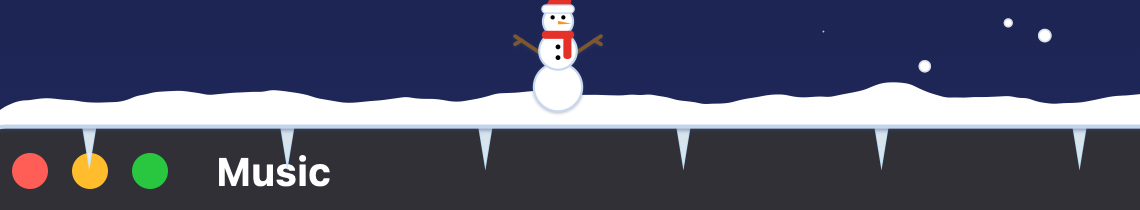
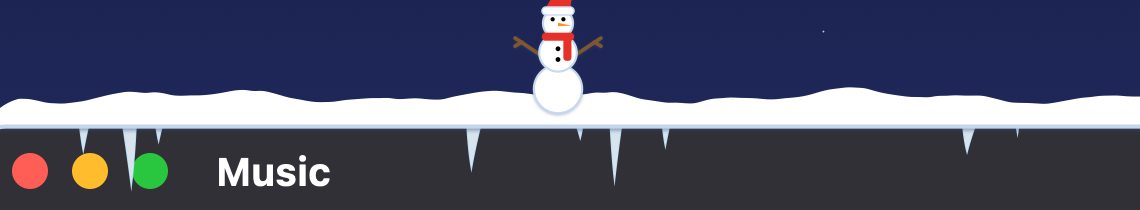
Vary icicle clusters and pop snowmen on click

diff --git a/Sources/main.swift b/Sources/main.swift
@@ -248,6 +248,14 @@ enum DockGeometry {
 
 // MARK: - Snow pile height map
 
+struct Icicle {
+    let x: CGFloat
+    let cap: CGFloat
+    let girth: CGFloat
+    let lean: CGFloat
+    var length: CGFloat = 0
+}
+
 final class Pile {
     static let step: CGFloat = 3
     static let maxH: CGFloat = 13 * S
@@ -257,7 +265,8 @@ final class Pile {
     var caps: [CGFloat] = []
     var lastSeen = Date()
     var created = Date()
-    var icicles: [CGFloat] = []
+    var icicles: [Icicle] = []
+    var icicleLayoutWidth: CGFloat?
     var icicleDirty = true
     private let ph1 = CGFloat.random(in: 0...6.28), ph2 = CGFloat.random(in: 0...6.28)
     /// soft rounded lumps rather than a flat slab
@@ -1370,10 +1379,42 @@ final class Engine {
         updateRate()
     }
 
-    func icicleSite(_ key: UInt64, _ index: Int) -> (x: CGFloat, cap: CGFloat) {
-        let seed = (key &* 1664525 &+ UInt64(index) &* 1013904223) & 0xffff
-        let fraction = CGFloat(seed) / 65535
-        return ((25 + CGFloat(index) * 58 + fraction * 12) * S, (10 + fraction * 12) * S)
+    func layoutIcicles(on surf: Surface, pile: Pile) {
+        let width = surf.width / S
+        guard pile.icicleLayoutWidth != width else { return }
+        pile.icicleLayoutWidth = width
+        var seed = surf.key
+        func sample(_ range: ClosedRange<CGFloat>) -> CGFloat {
+            // SplitMix64 keeps the layout stable as the window moves or reveals more sites on resize.
+            seed &+= 0x9e3779b97f4a7c15
+            var value = seed
+            value = (value ^ (value >> 30)) &* 0xbf58476d1ce4e5b9
+            value = (value ^ (value >> 27)) &* 0x94d049bb133111eb
+            value ^= value >> 31
+            let fraction = CGFloat(value >> 40) / 16_777_216
+            return range.lowerBound + fraction * (range.upperBound - range.lowerBound)
+        }
+
+        var sites: [Icicle] = []
+        var x = sample(16...45)
+        let limit = width - 12
+        while x < limit {
+            let count = Int(sample(1...5))
+            let longest = Int(sample(0...CGFloat(count)))
+            for index in 0..<count {
+                guard x < limit else { break }
+                let cap = index == longest ? sample(11...27) : sample(3...13)
+                sites.append(Icicle(x: x * S, cap: cap * S, girth: sample(0.8...1.35),
+                                    lean: sample(-0.65...0.65)))
+                if index + 1 < count { x += sample(5...16) }
+            }
+            x += sample(27...96)
+        }
+        for index in 0..<min(sites.count, pile.icicles.count) {
+            sites[index].length = pile.icicles[index].length
+        }
+        pile.icicles = sites
+        pile.icicleDirty = true
     }
 
     /// Explicit calls also drive the debug and virtual-desktop melt scenes.
@@ -1381,28 +1422,24 @@ final class Engine {
         guard Settings.shared.meltOn, !paused, seconds > 0 else { return }
         let amount = [CGFloat(0.4), 1.2, 3.0][Settings.shared.meltSpeed] * S * CGFloat(seconds) / 60
         for (key, pile) in piles where Date().timeIntervalSince(pile.created) >= 180 {
-            guard pile.heights.contains(where: { $0 > 0 }) || pile.icicles.contains(where: { $0 > 0 }) else { continue }
+            guard pile.heights.contains(where: { $0 > 0 }) || pile.icicles.contains(where: { $0.length > 0 }) else { continue }
             let before = pile.heights
             for i in pile.heights.indices { pile.heights[i] = max(0, pile.heights[i] - amount) }
             pile.dirty = true; pileDirty = true
             guard key < Engine.dockKey(0), let surf = surfaces[key] else { continue }
-            let count = max(0, Int((surf.width / S - 25) / 58))
-            if pile.icicles.count != count {
-                pile.icicles = Array(pile.icicles.prefix(count))
-                while pile.icicles.count < count { pile.icicles.append(0) }
-                pile.icicleDirty = true
-            }
+            layoutIcicles(on: surf, pile: pile)
             let empty = !before.contains { $0 > 0.05 }
             for i in pile.icicles.indices {
-                let site = icicleSite(key, i), bin = min(before.count - 1, max(0, pile.index(site.x)))
+                let site = pile.icicles[i], bin = min(before.count - 1, pile.index(site.x))
                 guard bin >= 0 else { continue }
-                let old = pile.icicles[i]
+                let old = site.length
                 if empty {
-                    pile.icicles[i] = max(0, old - amount * 2)
+                    pile.icicles[i].length = max(0, old - amount * 2)
                 } else if before[bin] > 0, isVisible(key, surf.minX + site.x) {
-                    pile.icicles[i] = min(site.cap, old + (before[bin] - pile.heights[bin]) * 4)
+                    let growth = (before[bin] - pile.heights[bin]) * site.cap / (4 * S)
+                    pile.icicles[i].length = min(site.cap, old + growth)
                 }
-                if old != pile.icicles[i] { pile.icicleDirty = true }
+                if old != pile.icicles[i].length { pile.icicleDirty = true }
             }
         }
     }
@@ -1410,13 +1447,16 @@ final class Engine {
     func iciclePath(_ surf: Surface, _ pile: Pile) -> CGPath {
         let path = CGMutablePath()
         guard surf.z >= 0 else { return path }
-        for i in pile.icicles.indices where pile.icicles[i] > 0 {
-            let x = icicleSite(surf.key, i).x, length = pile.icicles[i]
+        for site in pile.icicles where site.length > 0 {
+            let x = site.x, length = site.length
             guard x < surf.width - 12 * S, isVisible(surf.key, surf.minX + x) else { continue }
-            let half = min(2.2 * S, length * 0.18)
+            let half = min(2.2 * S, length * 0.18) * site.girth
+            let tip = CGPoint(x: x + half * site.lean, y: -length)
             path.move(to: CGPoint(x: x - half, y: 0))
-            path.addLine(to: CGPoint(x: x, y: -length))
-            path.addLine(to: CGPoint(x: x + half, y: 0)); path.closeSubpath()
+            path.addQuadCurve(to: tip, control: CGPoint(x: tip.x - half * 0.4, y: -length * 0.65))
+            path.addQuadCurve(to: CGPoint(x: x + half, y: 0),
+                              control: CGPoint(x: tip.x + half * 0.5, y: -length * 0.55))
+            path.closeSubpath()
         }
         return path
     }
@@ -1540,11 +1580,16 @@ final class Engine {
         let area = m.kind == .snowman ? 0.3 * (13 * m.scale) * (50 * m.scale) : .pi * m.scale * m.scale
         piles[s.key]?.deposit(at: m.pos.x - s.minX, area: area)
         pileDirty = true
+        snowPuff(for: m, baseY: s.top, source: s.key)
+    }
+
+    private func snowPuff(for m: Prop, baseY: CGFloat, source: UInt64) {
+        guard !overlays.isEmpty else { return }
         let count = m.kind == .snowman ? 26 : 12
         let w = m.halfWidth, h = m.height * 0.7
         CATransaction.begin(); CATransaction.setDisableActions(true)
         for _ in 0..<count {
-            let pos = CGPoint(x: m.pos.x + .random(in: -w...w), y: s.top + .random(in: 0...h))
+            let pos = CGPoint(x: m.pos.x + .random(in: -w...w), y: baseY + .random(in: 0...h))
             let o = overlays[overlayIndex(for: pos)]
             let layer = flakeLayer()
             let r = CGFloat.random(in: 1.2...2.6) * S
@@ -1553,7 +1598,7 @@ final class Engine {
             o.actors.addSublayer(layer)
             let dir: CGFloat = pos.x < m.pos.x ? -1 : 1
             spills.append(Spill(layer: layer, pos: pos, vy: .random(in: 60...260) * S, vx: dir * .random(in: 30...170) * S,
-                                area: 0, source: s.key, fromDock: true, ttl: .random(in: 0.4...0.6)))
+                                area: 0, source: source, fromDock: true, ttl: .random(in: 0.4...0.6)))
         }
         CATransaction.commit()
         updateRate()
@@ -1695,7 +1740,7 @@ final class Engine {
         }
         for (k, surf) in surfaces {
             guard let pile = piles[k], pile.heights.count > 1 else { continue }
-            let empty = (pile.mean <= 0.05 && !pile.icicles.contains { $0 > 0 }) || (segments[k] ?? []).isEmpty
+            let empty = (pile.mean <= 0.05 && !pile.icicles.contains { $0.length > 0 }) || (segments[k] ?? []).isEmpty
             if empty { if let v = pileViews[k] { v.container.isHidden = true }; continue }
             let view = pileViews[k] ?? PileView()
             pileViews[k] = view
@@ -2077,6 +2122,7 @@ final class Engine {
     var downPoint: CGPoint?
     var downTime: CFTimeInterval = 0
     var downWin: Win?
+    weak var downSnowman: Prop?
 
     func topWindow(at p: CGPoint, in list: [Win]) -> Win? { list.first { $0.frame.contains(p) }.flatMap { $0.surface ? $0 : nil } }
 
@@ -2089,6 +2135,7 @@ final class Engine {
 
     func mouseDown(at p: CGPoint) {
         carryCancel(); carry = nil
+        downSnowman = nil
         mouseIsDown = true
         refreshGeometry()
         if expose { downPoint = nil; downWin = nil; drag = nil; rollCancel(); return }   // Mission Control clicks
@@ -2105,6 +2152,9 @@ final class Engine {
         if let m = prop(at: p, ballsOnly: true), let key = m.host, surfaces[key] != nil {
             rollCancel()
             carry = Carry(prop: m, host: key, at: p, time: clock())
+        } else if let m = prop(at: p), m.kind == .snowman {
+            rollCancel()
+            downSnowman = m
         } else { rollBegin(at: p) }
         CATransaction.commit()
         updateRate()
@@ -2195,9 +2245,12 @@ final class Engine {
             let x = surf.minX + min(surf.width, CGFloat(i) * Pile.step)
             samples.append((x: x, y: surf.top + h - t / 2, area: t * Pile.step))
         }
-        if pile.icicles.contains(where: { $0 > 0 }) {        // icicles snap off with it
+        if pile.icicles.contains(where: { $0.length > 0 }) {        // icicles snap off with it
             let keep = 1 - min(1, f * 1.5)
-            pile.icicles = pile.icicles.map { $0 * keep < 1 ? 0 : $0 * keep }
+            for index in pile.icicles.indices {
+                let length = pile.icicles[index].length * keep
+                pile.icicles[index].length = length < 1 ? 0 : length
+            }
             pile.icicleDirty = true
         }
         pile.dirty = true; pileDirty = true
@@ -2235,8 +2288,9 @@ final class Engine {
 
     func mouseUp(at p: CGPoint) {
         mouseIsDown = false
-        defer { updateRate() }
-        if drag?.confirmed == true {
+        defer { downSnowman = nil; updateRate() }
+        let draggedWindow = drag?.confirmed == true
+        if draggedWindow {
             carryCancel()
             drag = nil
             // final word from the window list (it may have snapped / tiled)
@@ -2266,7 +2320,18 @@ final class Engine {
         guard !rolled, let d = downPoint else { downPoint = nil; return }
         downPoint = nil
         guard hypot(p.x - d.x, p.y - d.y) < 4, clock() - downTime < 0.6 else { return }
-        if let m = prop(at: p) { jump(m); return }
+        if let m = downSnowman {
+            guard !draggedWindow, prop(at: p) === m else { return }
+            props.removeAll { $0 === m }
+            m.remove()
+            snowPuff(for: m, baseY: m.pos.y, source: m.host ?? 0)
+            saveState()
+            return
+        }
+        if let m = prop(at: p) {
+            if m.kind == .ball { jump(m) }
+            return
+        }
         guard Settings.shared.snowmenOn, let w0 = downWin else { return }
         refreshGeometry()
         guard let w1 = topWindow(at: p, in: wins), w1.id == w0.id, w1.frame == w0.frame else { return }
@@ -2316,7 +2381,7 @@ final class Engine {
         out += "occlusion=\(occlusionEvents) geometryReads=\(geometryReads) ticks=\(tickCount) expose=\(expose) at=\(exposeAt) clipOpacity=\(overlays.first?.clip.opacity ?? -1)\n"
         out += "shake on=\(settings.shakeOn) strength=\(settings.shakeStrength.rawValue) jolts=\(shakeJolts) sheds=\(shakeSheds) drags=\(dragCount)\n"
         for (k, p) in piles where k < Engine.dockKey(0) {
-            let lengths = p.icicles.filter { $0 > 0 }
+            let lengths = p.icicles.map(\.length).filter { $0 > 0 }
             if let longest = lengths.max() { out += "icicles key=\(k) n=\(lengths.count) maxLen=\(longest)\n" }
         }
         out += "axTrusted=\(AXIsProcessTrusted()) dockAX=\(DockGeometry.debugAXFrame.map { "\(Int($0.minX))..\(Int($0.maxX)) top=\(Int($0.maxY))" } ?? "nil")\n"

diff --git a/Sources/Showcase.swift b/Sources/Showcase.swift
@@ -195,7 +195,7 @@ enum Showcase {
             step(30, record: true) { _ in engine.meltStep(seconds: 20) }
             still("still-9-icicles")
             still("icicles-zoom", scale: 3, crop: CGRect(x: surf.minX + 10, y: surf.top - 30, width: 380, height: 70))
-            let ic = engine.piles[2]?.icicles.filter { $0 > 0 } ?? []
+            let ic = engine.piles[2]?.icicles.map(\.length).filter { $0 > 0 } ?? []
             print("melt mean \(before) -> \(engine.piles[2]?.mean ?? 0), icicles n=\(ic.count) max=\(ic.max() ?? 0)")
         }
         // 12) grab Music by its title bar and shake it: the snow and its snowman fly off.
@@ -220,6 +220,19 @@ enum Showcase {
             engine.mouseUp(at: grab)
             step(30 * 2, record: true)
             print("shake mean \(before) -> \(engine.piles[2]?.mean ?? 0), props on Music: \(engine.props.filter { $0.host == 2 }.count)")
+        }
+        // Clicking a visible snowman removes it and starts a puff at its position.
+        if let surf = engine.surfaces[2] {
+            engine.spawnSnowman(onSurface: surf.key, atX: surf.minX + surf.width * 0.8, fromY: surf.top + 30 * S)
+            if let snowman = engine.props.last {
+                step(30)
+                let click = CGPoint(x: snowman.pos.x, y: snowman.pos.y + snowman.height * 0.35)
+                let before = engine.spills.count
+                engine.mouseDown(at: click)
+                engine.mouseUp(at: click)
+                precondition(!engine.props.contains { $0 === snowman } && engine.spills.count == before + 26)
+                print("snowman click: removed, 26 puff particles")
+            }
         }
         print("showcase: \(frameNo) frames -> \(outDir)")
     }

diff --git a/README.md b/README.md
@@ -33,14 +33,14 @@
 - **창을 좁히면 눈이 떨어짐**: 왼쪽이나 오른쪽 가장자리로 창을 좁히면 넘친 눈이 아래로 떨어져 다른 창이나 Dock에 쌓여요. Dock 폭이 줄어들 때도 바깥쪽 눈이 떨어져요.
 - **창 드래그 따라가기**: 창을 끌고 다니면 쌓인 눈과 눈사람이 마우스 움직임에 맞춰 바로 따라오고, 옮긴 자리에서도 계속 쌓여요.
 - **눈 굴려 눈사람 만들기**: 창 위에 쌓인 눈을 마우스로 좌우로 문지르듯 드래그하면 눈덩이가 굴러가며 커지고, 지나간 자리의 눈은 줄어요. 충분히 크면 손을 놓는 순간 산타 모자 눈사람이 뿅 하고 생기고, 작으면 눈덩이로 남아요. (창 자체가 움직이면 창 드래그로 보고 굴리기를 취소해요.)
-- **제목줄 클릭 눈사람·점프**: 창 제목줄(위쪽 약 28pt)을 클릭하면 그 자리에 눈사람이 톡 떨어져 서요. 눈사람을 클릭하면 폴짝 뛰어요.
+- **제목줄 클릭 눈사람**: 창 제목줄(위쪽 약 28pt)을 클릭하면 그 자리에 눈사람이 톡 떨어져 서요. 눈사람을 클릭하면 눈가루가 뿅 흩어지면서 사라져요.
 - **눈덩이 옮겨 쌓기**: 굴려 둔 눈덩이를 마우스로 집어 다른 눈덩이 위에 놓으면 둘이 합쳐져 눈사람이 돼요(큰 쪽이 아래). 빈 곳에 놓으면 아래에 있는 창이나 Dock으로 떨어져요. 눈덩이를 그냥 클릭하면 지금처럼 폴짝 뛰어요.
 - **창 흔들어 눈 털기**: 창 제목줄을 잡고 좌우(또는 위아래)로 빠르게 흔들면 한 번 방향을 틀 때마다 쌓인 눈이 덩어리째 털려 나가요. 털린 눈은 창이 움직이던 방향으로 날아가 아래 창이나 Dock에 떨어지고, 고드름도 같이 부러져요. 세게 흔들면 눈사람과 눈덩이도 빙글 돌며 떨어져요. 한 번 왔다 갔다 하며 창 위치를 맞추는 정도로는 털리지 않아요. 메뉴에서 켜고 끌 수 있어요.
 - **창을 닫으면 떨어짐**: 눈사람이 서 있던 창이 닫히거나 사라지면 아래로 떨어지고, Dock에 부딪히면 '퍽' 하고 눈가루로 흩어지면서 Dock 위에 눈이 조금 더 쌓여요.
 - **미션 컨트롤에서는 숨김**: 미션 컨트롤(창 모아보기)이 열리면 창·Dock 위 눈과 눈사람이 살짝 사라졌다가, 닫으면 그대로 다시 나타나요. 그동안 창 크기가 줄어든 걸로 오해해 눈이 흐트러지거나 떨어지지 않아요.
 - **눈이 초기화되지 않음**: 쌓인 눈과 눈사람은 앱을 다시 켜도(30분 이내), 창을 최소화하거나 다른 Space로 옮겨도 그대로 남아 있어요.
 - **마우스 바람**: 마우스를 빠르게 휘두르면 그 근처에서 내리던 눈송이가 마우스가 움직인 쪽으로 밀려요. 쌓인 눈 위를 빠르게 지나가면 눈가루가 조금 흩날리고, 그만큼 쌓인 눈이 아주 조금 줄어요. 메뉴에서 켜고 끄거나 세기(약하게·보통·세게)를 고를 수 있어요.
-- **녹기·고드름**: 쌓인 지 3분이 지난 눈은 천천히 녹아요. 녹은 물로 창 윗변 아래에 고드름이 맺히고, 눈이 다 녹으면 고드름도 줄어들어요. 메뉴에서 켜고 끄거나 녹는 속도(느리게·보통·빠르게, 분당 약 0.4·1.2·3pt)를 고를 수 있어요.
+- **녹기·고드름**: 쌓인 지 3분이 지난 눈은 천천히 녹아요. 녹은 물로 창 윗변 아래에 길이가 다른 고드름이 하나씩 또는 몇 개씩 모여 맺히고, 눈이 다 녹으면 고드름도 줄어들어요. 메뉴에서 켜고 끄거나 녹는 속도(느리게·보통·빠르게, 분당 약 0.4·1.2·3pt)를 고를 수 있어요.
 - **배터리 절약**: 자동으로 두면 전원 어댑터가 빠져 있거나 저전력 모드일 때 눈 양과 갱신 횟수를 줄여요(폭설은 '많이'로 낮춰요). 항상 켜 두거나 끌 수도 있어요.
 - **로그인 시 자동 실행**: 메뉴에서 켜면 로그인할 때 MacSnow가 자동으로 실행돼요(`SMAppService`).
 - **제설차**: 노란 픽셀 제설차가 가끔 Dock 위를 지나가며 눈을 밀어요. 밀린 눈은 날 앞에 쐐기 모양으로 모여 같이 움직여요. 메뉴에서 바로 부를 수도 있어요.
